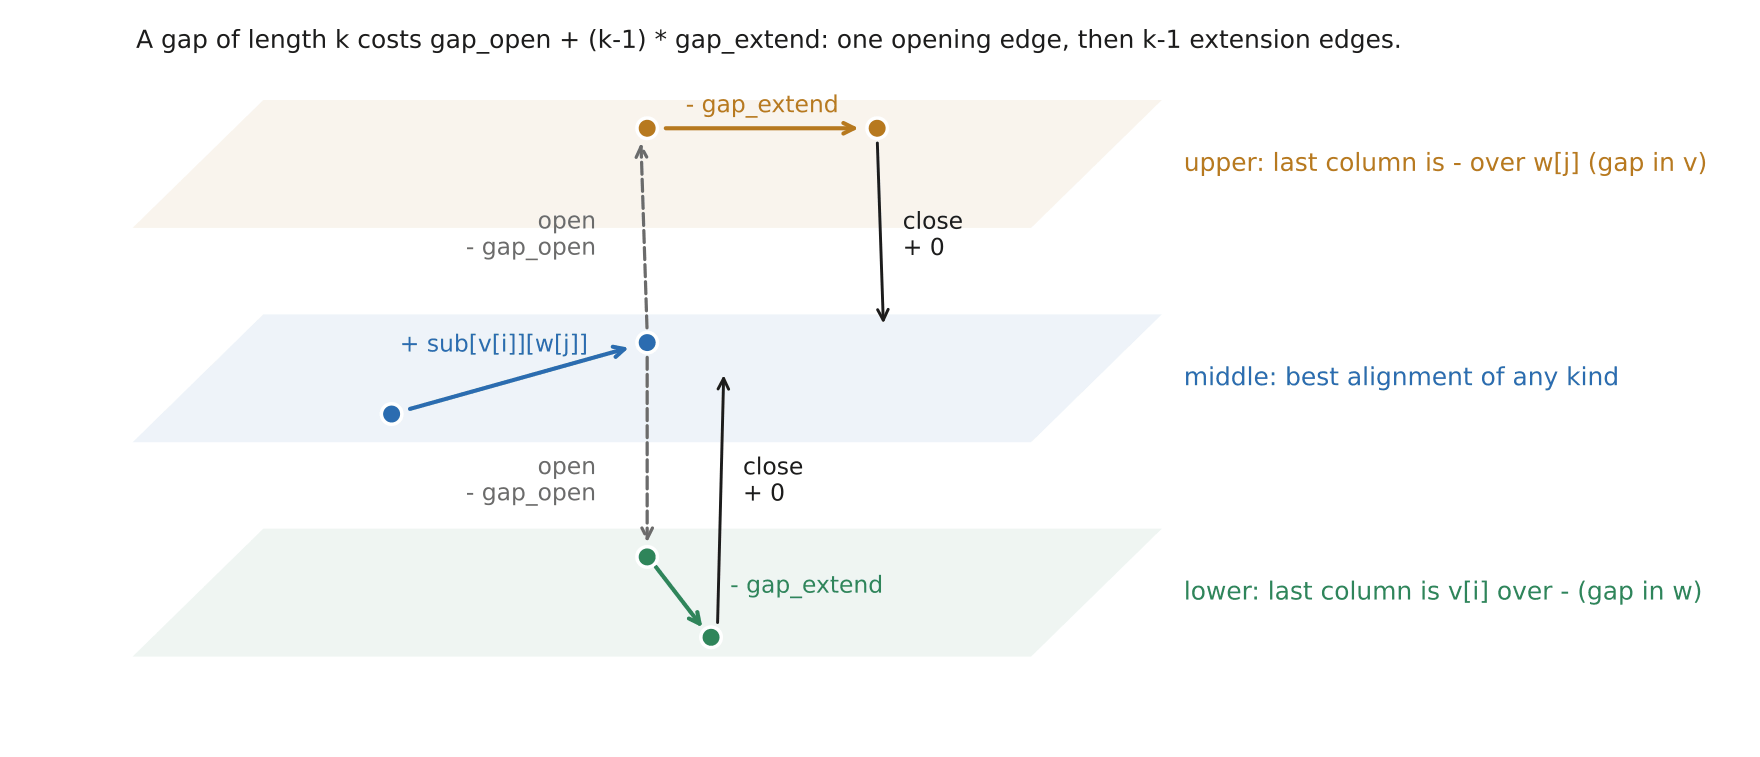
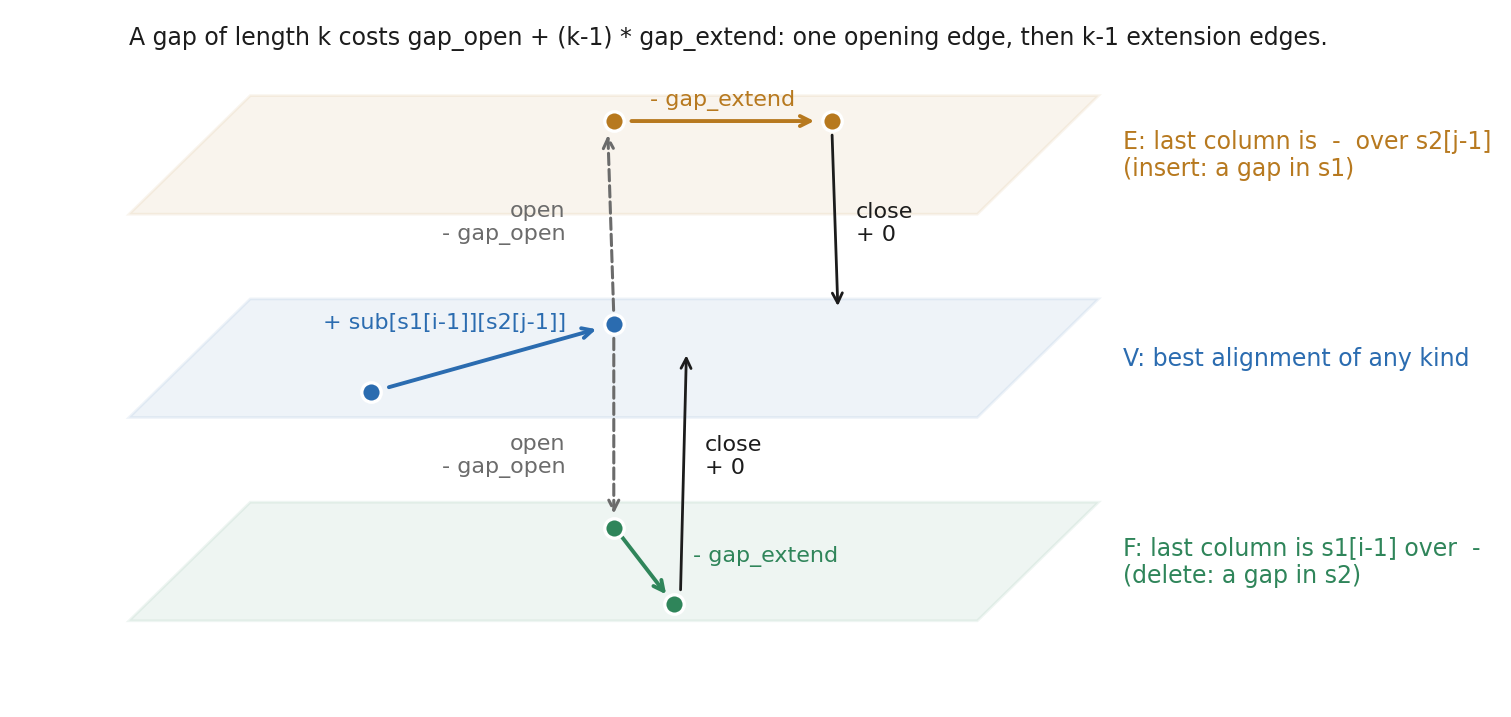
lab2: fig_three_levels labelled with the stub's tables V, E, F and s1, s2
Claude-Session: https://claude.ai/code/session_01X331f2EKJurjMJoA6wFAKQ

diff --git a/README.md b/README.md
@@ -92,7 +92,7 @@ the original paper figures are not.
 | `fig_wildin_forkhead` | Lab 2 Fig. 9 | schematic of the forkhead domains of human and mouse scurfin aligned with HNF3-gamma and Genesis, with the IPEX mutations on top; after Wildin et al., *Nat Genet* 27:18 (2001), Fig. 1 |
 | `fig_global_local` | Lab 2 Fig. 10 | A dot plot of FOXP3 against FOXA3 with the local alignment path in the forkhead domain. |
 | `fig_brunkow_scurfy_insertion` | Lab 2 Fig. 11 | schematic of the *Foxp3* exons with the wild-type and scurfy sequences of exon 8; after Brunkow et al. 2001, Fig. 1b |
-| `fig_three_levels` | Lab 2 Fig. 12 | Three stacked grids labelled upper, middle and lower with the edges between them. |
+| `fig_three_levels` | Lab 2 Fig. 12 | Three stacked grids labelled with the stub's tables E, V and F (upper, middle and lower level) with the edges between them. |
 | `fig_cooptimal` | Lab 2 Fig. 13 | Six alignments of the same two 12-base sequences, two of them highlighted. |
 | `fig_tan_vcf` | Lab 2 Fig. 14 | schematic of one CA deletion in a CA repeat written four ways in VCF, only one normalized; after Tan, Abecasis & Kang, *Bioinformatics* 31:2202 (2015), Fig. 1 |
 | `fig_counts` | Lab 2 Fig. 15 | Bar chart of 600, 20 and 4 optimal alignments on a log scale. |
